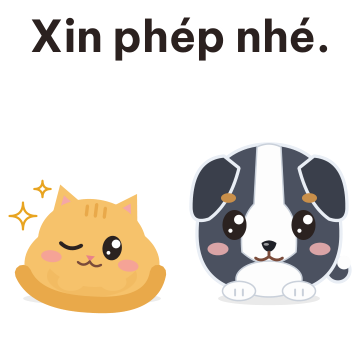
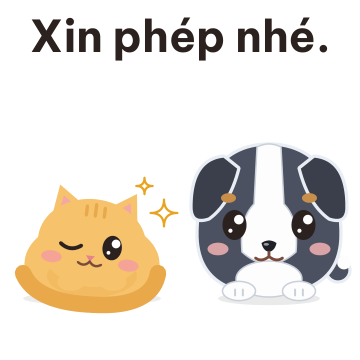
Duo stickers: P1 sparkles on the open-eye side

diff --git a/docs/plans/assets/paws/build_duo_stickers.py b/docs/plans/assets/paws/build_duo_stickers.py
@@ -160,7 +160,7 @@ def p1():
     look = dict(LOOK["rest"], lid=0.06, roll=7, cheek=0.85, lidR=1)
     def spark(x, y, r):
         return f'<path d="M{x} {y - r} Q{x} {y} {x + r} {y} Q{x} {y} {x} {y + r} Q{x} {y} {x - r} {y} Q{x} {y} {x} {y - r}Z" fill="#fff" stroke="#e8a420" stroke-width="1.5" stroke-linejoin="round"/>'
-    wink = spark(14, 60, 9) + spark(27, 42, 5.5)   # a wink: sparkles by the shut eye
+    wink = spark(108, 58, 9) + spark(95, 40, 5.5)   # a wink: sparkles on the side of the open eye
     return wrap(curled(look) + wink, 0, 20, 1.0) + wrap(paws("open", "smile"), 118, 20, 1.0)
 
 

diff --git a/docs/plans/paws-duo-stickers.md b/docs/plans/paws-duo-stickers.md
@@ -9,7 +9,7 @@ All in [`assets/paws/stickers-draft/`](assets/paws/stickers-draft/), built by `a
 | D1 | Paws alone | looks at a straight row of chestnuts; one is bigger, worried brows | Lệch một hạt. / One is off. / ひとつ大きい |
 | D2 | Paws alone | calm, a stamp beside a paper with a red tick, nobody will read it | Đã đóng dấu. / Stamped. / 押印しました |
 | D3 | Paws alone | happy and proud beside a small pile of pebbles, sparkles | Xong một viên. / One pebble. / ひとつ運んだ |
-| P1 | the pair | Peak winks (one eye shut, two sparkles by it, no z); Paws sits beside (no beads) | Xin phép nhé. / Excuse me. / 失礼します |
+| P1 | the pair | Peak winks (one eye shut, two sparkles on the open-eye side, no z); Paws sits beside (no beads) | Xin phép nhé. / Excuse me. / 失礼します |
 | P2 | the pair | Paws holds a tiny paper (a meeting) in the mouth; Peak looks at the ceiling | Họp nhé? / Meeting? / 会議しよう？ |
 | S1 | four panels | Paws creeps in from far (small), nearer, just past Peak (Peak opens one eye, no z), well past and bigger | Có xin phép. / Asks first. / ちゃんと許可 |
 | C1 | control, Peak | Peak eyes a cup at the edge of a table (two legs) | Rơi thử? / Just testing. / ためしただけ |
